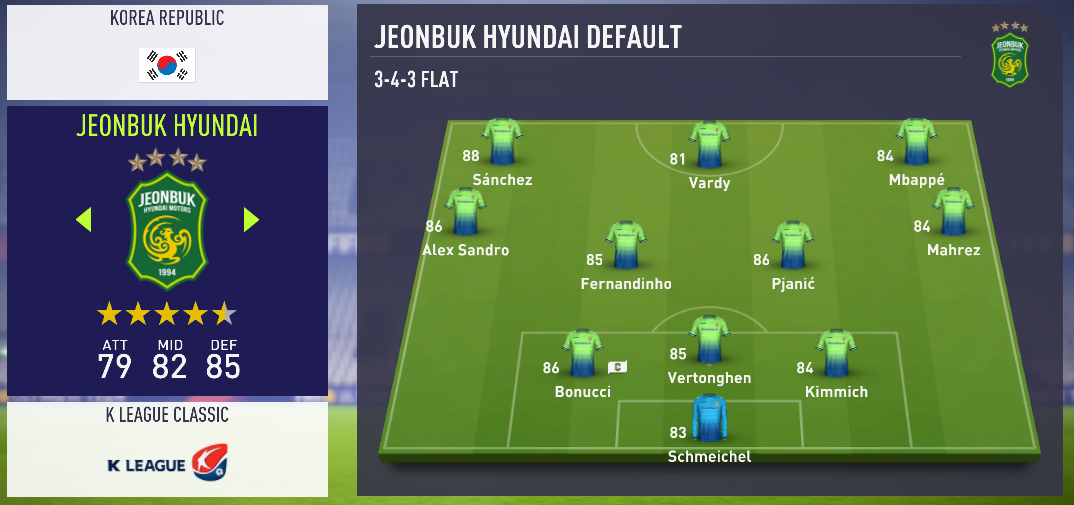
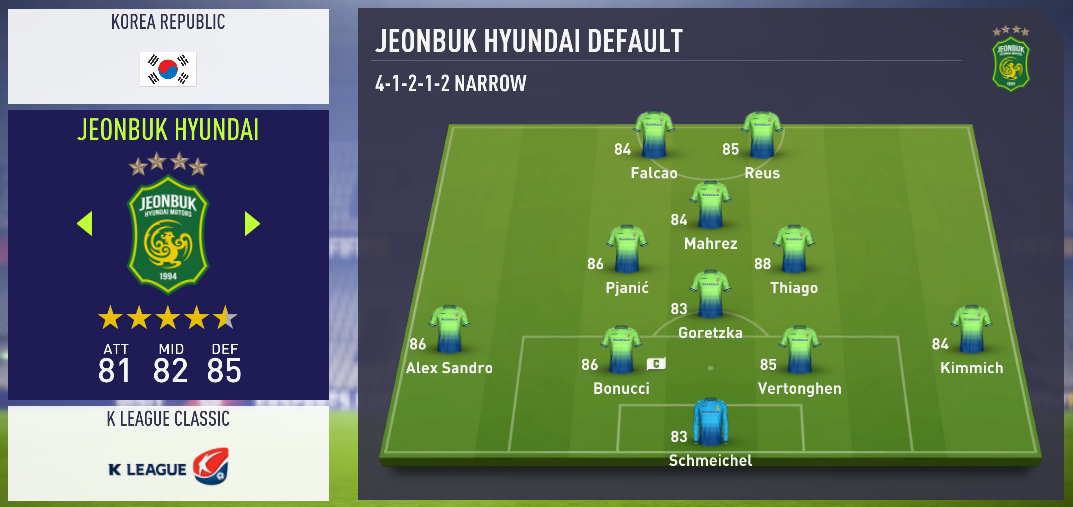
팀 포메이션 업데이트 및 퇴장 징계 반영

diff --git a/index.html b/index.html
@@ -41,7 +41,7 @@
             <h4>즐라탄(제주) 1 옐로우</h4>
             <h4>피케(서울) 1 옐로우</h4>
             <h4>베예린(상주) 1 옐로우</h4>
-            <h4>나잉골란(서울) 1 레드 - 2경기 징계</h4>
+            <h4>나잉골란(서울) 1 레드 - 1경기 징계</h4>
             <p></p>
             <h3>---부상자 현황---</h3>
             <h4>로벤(상주)</h4>

diff --git a/seoul.html b/seoul.html
@@ -9,6 +9,9 @@
         <h1>서울</h1>
         <h2>포메이션</h2>
         <img src="image/Seoul.PNG">
+        
+        <h2>출전 불가 선수</h2>
+        <h3>나잉골란 1경기</h3>
     </body>
     
 </html>
